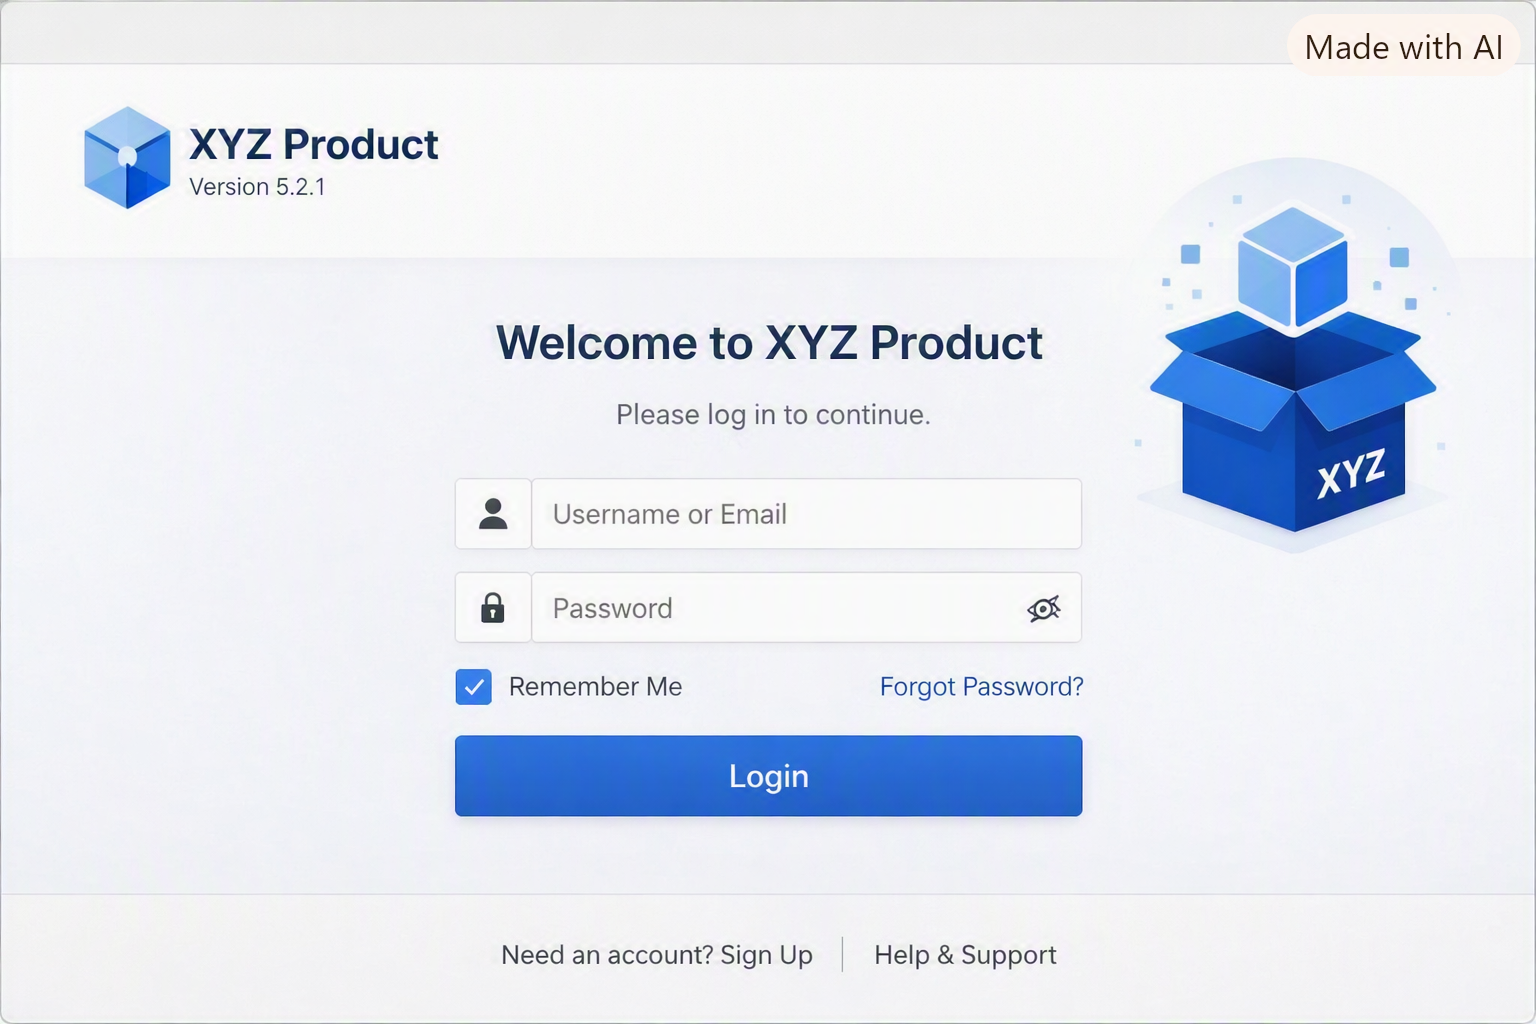
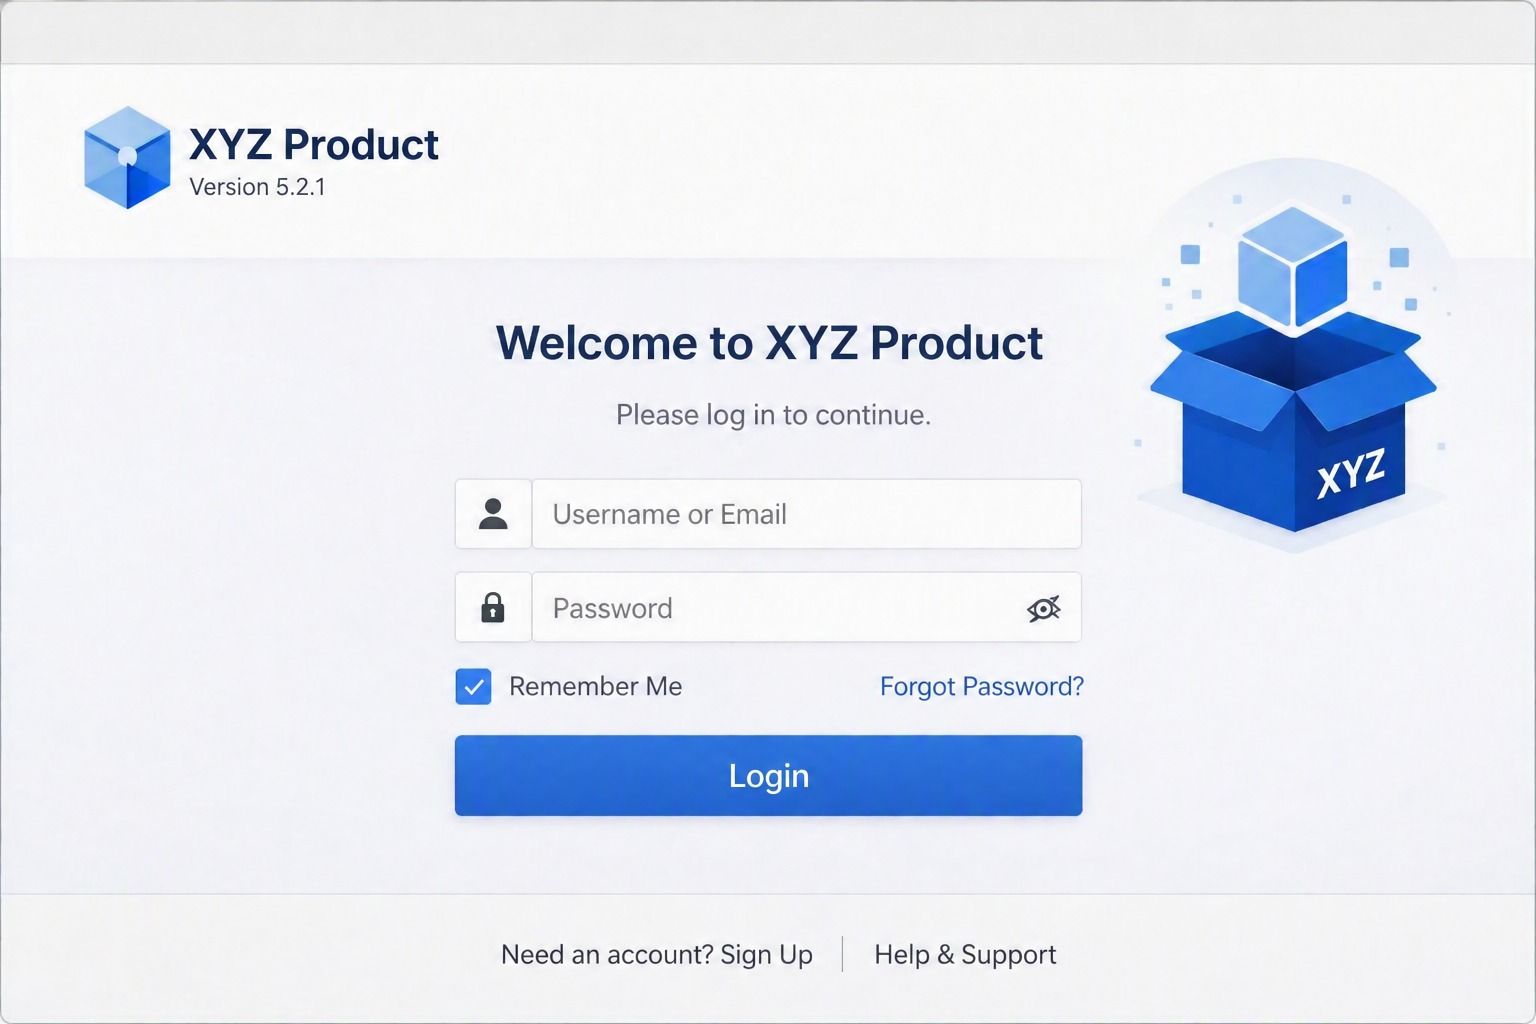
Modified

diff --git a/docs/administration.md b/docs/administration.md
@@ -1,15 +1,84 @@
-# Administration
- 
-Administrators can manage users, roles, and system settings.
- 
-## Manage users
- 
-Administrators can add, edit, deactivate, and delete users.
- 
-## Manage roles
- 
-Use roles to control access to product features.
- 
-## Manage system settings
- 
-System settings control application-wide behavior.
+# Administration Guide
+
+## Overview
+
+Administrators manage:
+
+- Users
+- Security
+- Integrations
+- System Configuration
+
+---
+
+## Administrator Responsibilities
+
+### User Management
+
+- Create users
+- Modify permissions
+- Disable inactive accounts
+
+### Security Controls
+
+| Area | Description |
+|--------|-------------|
+| MFA | Multi-factor Authentication |
+| RBAC | Role Based Access Control |
+| SSO | Single Sign-On |
+
+---
+
+## Security Workflow
+
+```mermaid
+flowchart TD
+A[User Login] --> B{MFA Enabled?}
+B -->|Yes| C[Validate Token]
+B -->|No| D[Reject Access]
+C --> E[Grant Access]
+```
+
+---
+
+## Add New User
+
+1. Navigate to **Administration**
+2. Select **Users**
+3. Click **Add User**
+
+### Example
+
+```html
+<input type="text" placeholder="Username">
+```
+
+---
+
+## Sample Administration Screen
+
+![Admin Console](https://placehold.co/800x450/png?on+Console
+
+---
+
+## Audit Recommendations
+
+> Review permissions quarterly.
+
+---
+
+## Task Checklist
+
+- [ ] Review User Roles
+- [ ] Verify MFA
+- [ ] Audit Integrations
+
+---
+
+## API Configuration
+
+```yaml
+authentication:
+type: OAuth
+tokenExpiration: 60
+```

diff --git a/docs/getting-started.md b/docs/getting-started.md
@@ -7,10 +7,13 @@
 Enter the URL:
 
 ```text
-https://XYZCompany.com
+https://www.XYZCompany.com
 ```
-The Home Page opens up. Click `Login`.
+The Home Page opens up. 
+
 >![Home Page](/docs/Images/Home%20Page.png)
+- **If you are a new user, click** `Sign Up Now`.
+- **If you are an existing user, click** `Login`.
 
 ### Sample Login Screen
 
